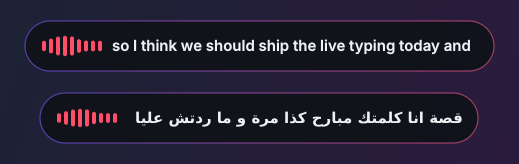
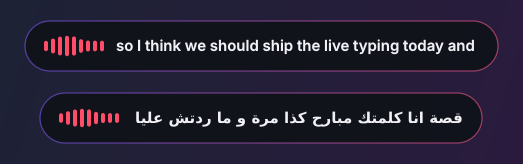
Floating bar fits its content
The bar is now exactly as wide as its icon and label in every state
(Listening, Transcribing, Typed, live text), with the label right after
the icon, and resizes smoothly between states instead of keeping a
fixed width with empty space.

Claude-Session: https://claude.ai/code/session_01GoY81h1qgz6u57ZQPTUT46

diff --git a/src/whisper_dictate/gui/overlay.py b/src/whisper_dictate/gui/overlay.py
@@ -41,9 +41,27 @@ COLORS = {
 }
 WIDTH, HEIGHT, MARGIN = 236, 52, 56
 MAX_WIDTH = 760  # the pill grows to show live text up to this width
+PAD_LEFT, GAP, PAD_RIGHT = 20, 12, 24  # around the icon and the label
+ICON_W = {"recording": 60, "transcribing": 40, "loading": 40, "starting": 40, "done": 22}
+
+
+def _icon_w(state: str) -> int:
+    return ICON_W.get(state, 18)
+
+
+def _text_x(state: str) -> int:
+    return PAD_LEFT + _icon_w(state) + GAP
+MIN_WIDTH = 110
 DIP = 22         # room for the little dip toward the screen before it slides away
 ENTER_MS, EXIT_MS = 560, 480
 BARS = 9
+
+
+def _font() -> QFont:
+    font = QFont()
+    font.setPixelSize(15)
+    font.setWeight(QFont.DemiBold)
+    return font
 
 
 def _tail(text: str, metrics: QFontMetrics, width: float) -> str:
@@ -148,14 +166,26 @@ class Overlay(QWidget):
         if text == self.text:
             return
         self.text = text
-        width = WIDTH
-        if text:
-            font = QFont()
-            font.setPixelSize(15)
-            font.setWeight(QFont.DemiBold)
-            width = min(max(WIDTH, QFontMetrics(font).horizontalAdvance(text) + 112), MAX_WIDTH)
-        self.target_w = float(width)
+        self.target_w = self._fit_width()
         self.update()
+
+    def _label(self) -> str:
+        """What the pill says right now (without the animated dots)."""
+        d = self.download if self.state in ("starting", "loading") else None
+        if d is not None:
+            frac = d.fraction
+            return f"Downloading {frac * 100:.0f}%" if frac is not None else "Downloading…"
+        if self.state == "recording" and self.text:
+            return self.text
+        return LABELS.get(self.state, "")
+
+    def _fit_width(self) -> float:
+        """Snug around the icon and the label, so there's no empty space."""
+        label = self._label()
+        if self.state == "transcribing":
+            label += "..."  # room for the animated dots, so it doesn't wobble
+        width = _text_x(self.state) + QFontMetrics(_font()).horizontalAdvance(label) + PAD_RIGHT
+        return float(min(max(width, MIN_WIDTH), MAX_WIDTH))
 
     def _shown(self) -> bool:
         return self.state in LABELS or (self.state in ("starting", "loading") and self.download is not None)
@@ -168,6 +198,9 @@ class Overlay(QWidget):
         self.state = state
         if state in ("starting", "loading"):
             self._poll_download()
+        self.target_w = self._fit_width()
+        if not self.isVisible():
+            self.pill_w = self.target_w  # appear at the right size
         self._update_visibility()
         self.update()
 
@@ -221,7 +254,8 @@ class Overlay(QWidget):
         # Fast attack, slow release, so the bars feel alive but not jittery.
         k = 0.5 if self.level > self.smooth else 0.12
         self.smooth += (self.level - self.smooth) * k
-        self.pill_w += (self.target_w - self.pill_w) * 0.18  # widen smoothly for live text
+        self.target_w = self._fit_width()
+        self.pill_w += (self.target_w - self.pill_w) * 0.2  # resize smoothly between states
         self.update()
 
     # -- drawing --------------------------------------------------------
@@ -256,7 +290,8 @@ class Overlay(QWidget):
 
         color = COLORS.get(self.state, QColor("#ffffff"))
         t = time.monotonic() - self.t0
-        icon = QRectF(16, 0, 64, HEIGHT)
+        icon = QRectF(PAD_LEFT, 0, _icon_w(self.state), HEIGHT)
+        TEXT_X = _text_x(self.state)
         if self.state == "recording":
             self._draw_bars(p, icon, color, t)
         elif self.state in ("transcribing", "loading", "starting"):
@@ -267,26 +302,23 @@ class Overlay(QWidget):
             self._draw_dash(p, icon, color)
 
         p.setPen(QColor(240, 240, 245))
-        font = QFont()
-        font.setPixelSize(15)
-        font.setWeight(QFont.DemiBold)
+        font = _font()
         p.setFont(font)
-        label = LABELS.get(self.state, "")
+        label = self._label()
         if self.state == "recording" and self.text:
-            label = _tail(self.text, QFontMetrics(font), W - 112)
+            label = _tail(self.text, QFontMetrics(font), W - TEXT_X - PAD_RIGHT)
         d = self.download if self.state in ("starting", "loading") else None
         if d is not None:
             frac = d.fraction
-            label = f"Downloading {frac * 100:.0f}%" if frac is not None else "Downloading…"
             if frac is not None:
-                track = QRectF(88, HEIGHT - 14, W - 112, 3)
+                track = QRectF(TEXT_X, HEIGHT - 14, W - TEXT_X - PAD_RIGHT, 3)
                 p.fillRect(track, QColor(255, 255, 255, 30))
                 p.fillRect(QRectF(track.x(), track.y(), track.width() * frac, 3), QColor(theme.ACCENT))
         if self.state == "transcribing":
             label += "." * (1 + int(t * 3) % 3)
         align = Qt.AlignRight if self.state == "recording" and _is_rtl(self.text) else Qt.AlignLeft
-        p.setClipRect(QRectF(86, 0, W - 100, HEIGHT))
-        p.drawText(QRectF(88, 0, W - 104, HEIGHT), Qt.AlignVCenter | align, label)
+        p.setClipRect(QRectF(TEXT_X - 2, 0, W - TEXT_X - PAD_RIGHT + 8, HEIGHT))
+        p.drawText(QRectF(TEXT_X, 0, W - TEXT_X - PAD_RIGHT + 4, HEIGHT), Qt.AlignVCenter | align, label)
         p.setClipping(False)
 
     def _draw_bars(self, p: QPainter, box: QRectF, color: QColor, t: float) -> None:
@@ -311,7 +343,7 @@ class Overlay(QWidget):
         for i in range(3):
             phase = t * 6 - i * 0.7
             dy = -5 * max(0.0, math.sin(phase))
-            p.drawEllipse(QRectF(box.x() + 14 + i * 13, cy - 4 + dy, 8, 8))
+            p.drawEllipse(QRectF(box.x() + 2 + i * 14, cy - 4 + dy, 8, 8))
 
     def _draw_check(self, p: QPainter, box: QRectF, color: QColor) -> None:
         pen = QPen(color, 3.2, Qt.SolidLine, Qt.RoundCap, Qt.RoundJoin)

diff --git a/tests/test_settings_window.py b/tests/test_settings_window.py
@@ -190,7 +190,15 @@ def test_overlay_grows_for_live_text(app):
     o.set_state("recording", 0.4, "ده أول تجربة للعربي المصري")
     o.pill_pixmap()
     o.set_state("transcribing", 0.0)
-    assert o.target_w == overlay.WIDTH and o.text == ""
+    assert o.target_w < overlay.WIDTH and o.text == ""
+    # Snug in every state: short labels make a short pill.
+    widths = {}
+    for state in ("recording", "transcribing", "done", "empty"):
+        o.set_state(state, 0.0)
+        widths[state] = o.target_w
+    assert widths["done"] < widths["recording"] < widths["transcribing"]
+    assert widths["done"] == min(widths.values())
+    assert widths["done"] >= overlay.MIN_WIDTH
     assert overlay._is_rtl("ده hello") and not overlay._is_rtl("hello ده")
 
 

diff --git a/src/whisper_dictate/__init__.py b/src/whisper_dictate/__init__.py
@@ -1,3 +1,3 @@
 """System-wide push-to-talk voice typing for Linux."""
 
-__version__ = "0.10.1"
+__version__ = "0.10.2"
